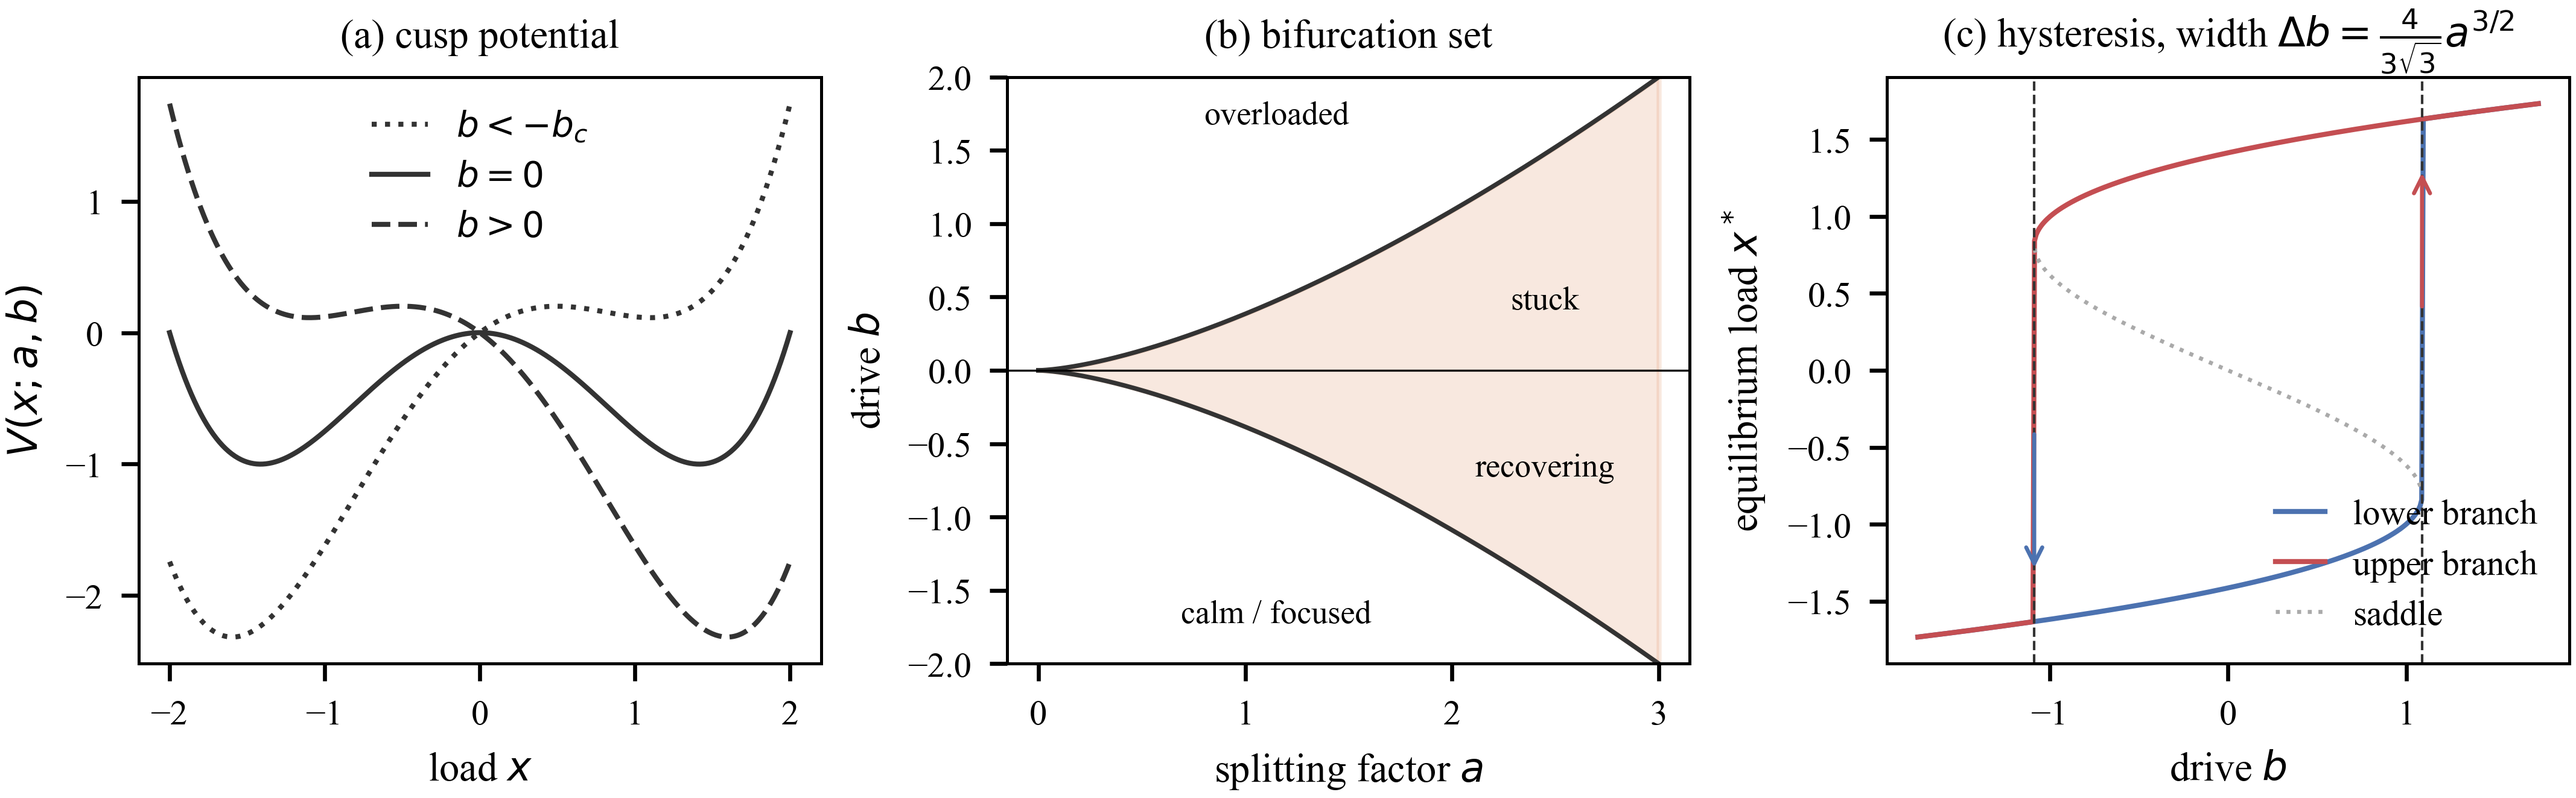
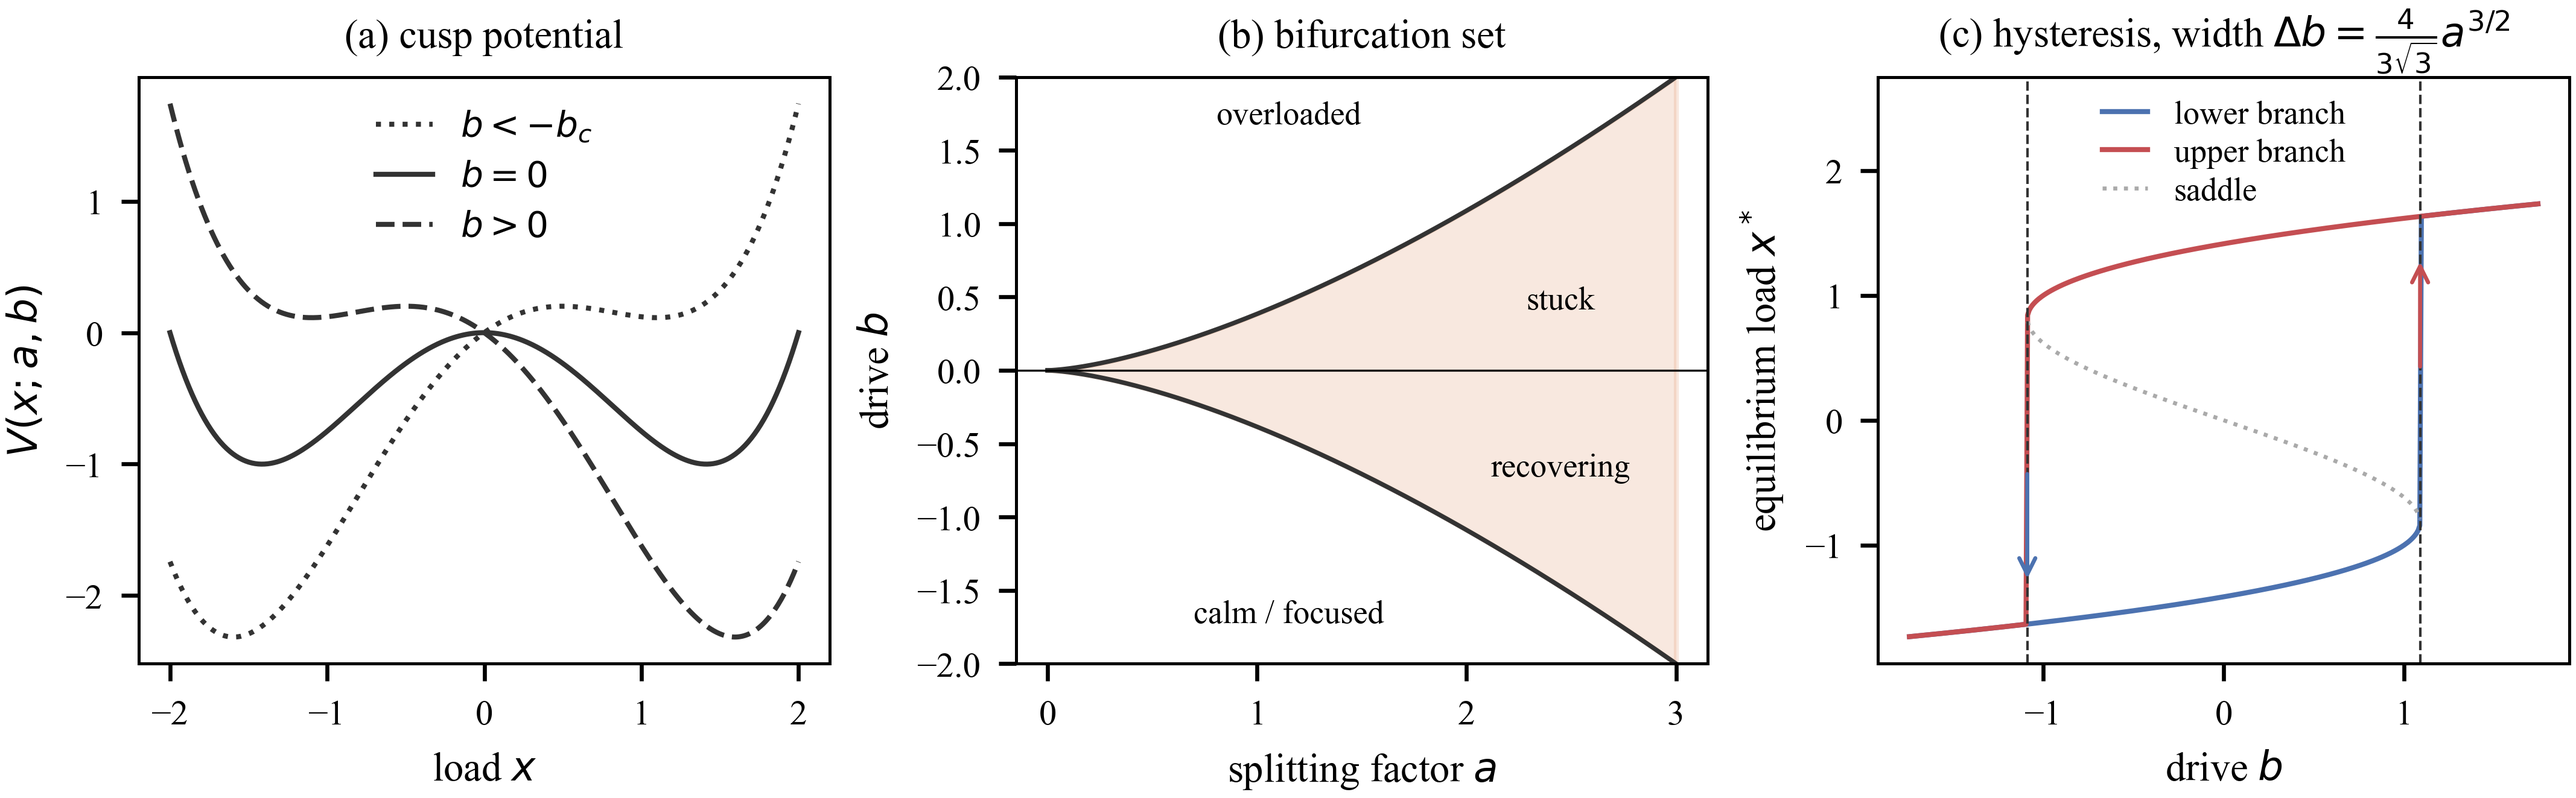
Move the Fig. 1c legend off the hysteresis curves
The legend sat on both branches in the lower right. Headroom above the upper
branch now holds it, centred between the fold lines.

diff --git a/code/experiments/make_figures.py b/code/experiments/make_figures.py
@@ -124,7 +124,10 @@ def fig1_geometry():
     ax.set_xlabel(r"drive $b$")
     ax.set_ylabel(r"equilibrium load $x^*$")
     ax.set_title(r"(c) hysteresis, width $\Delta b=\frac{4}{3\sqrt{3}}a^{3/2}$")
-    ax.legend(frameon=False, loc="lower right", handlelength=1.4)
+    # Headroom above the upper branch gives the legend a place off the curves.
+    ax.set_ylim(-1.95, 2.75)
+    ax.legend(frameon=False, loc="upper center", handlelength=1.4,
+              fontsize=6.5, labelspacing=0.25, borderaxespad=0.3)
 
     _save(fig, "fig1_geometry")
 
